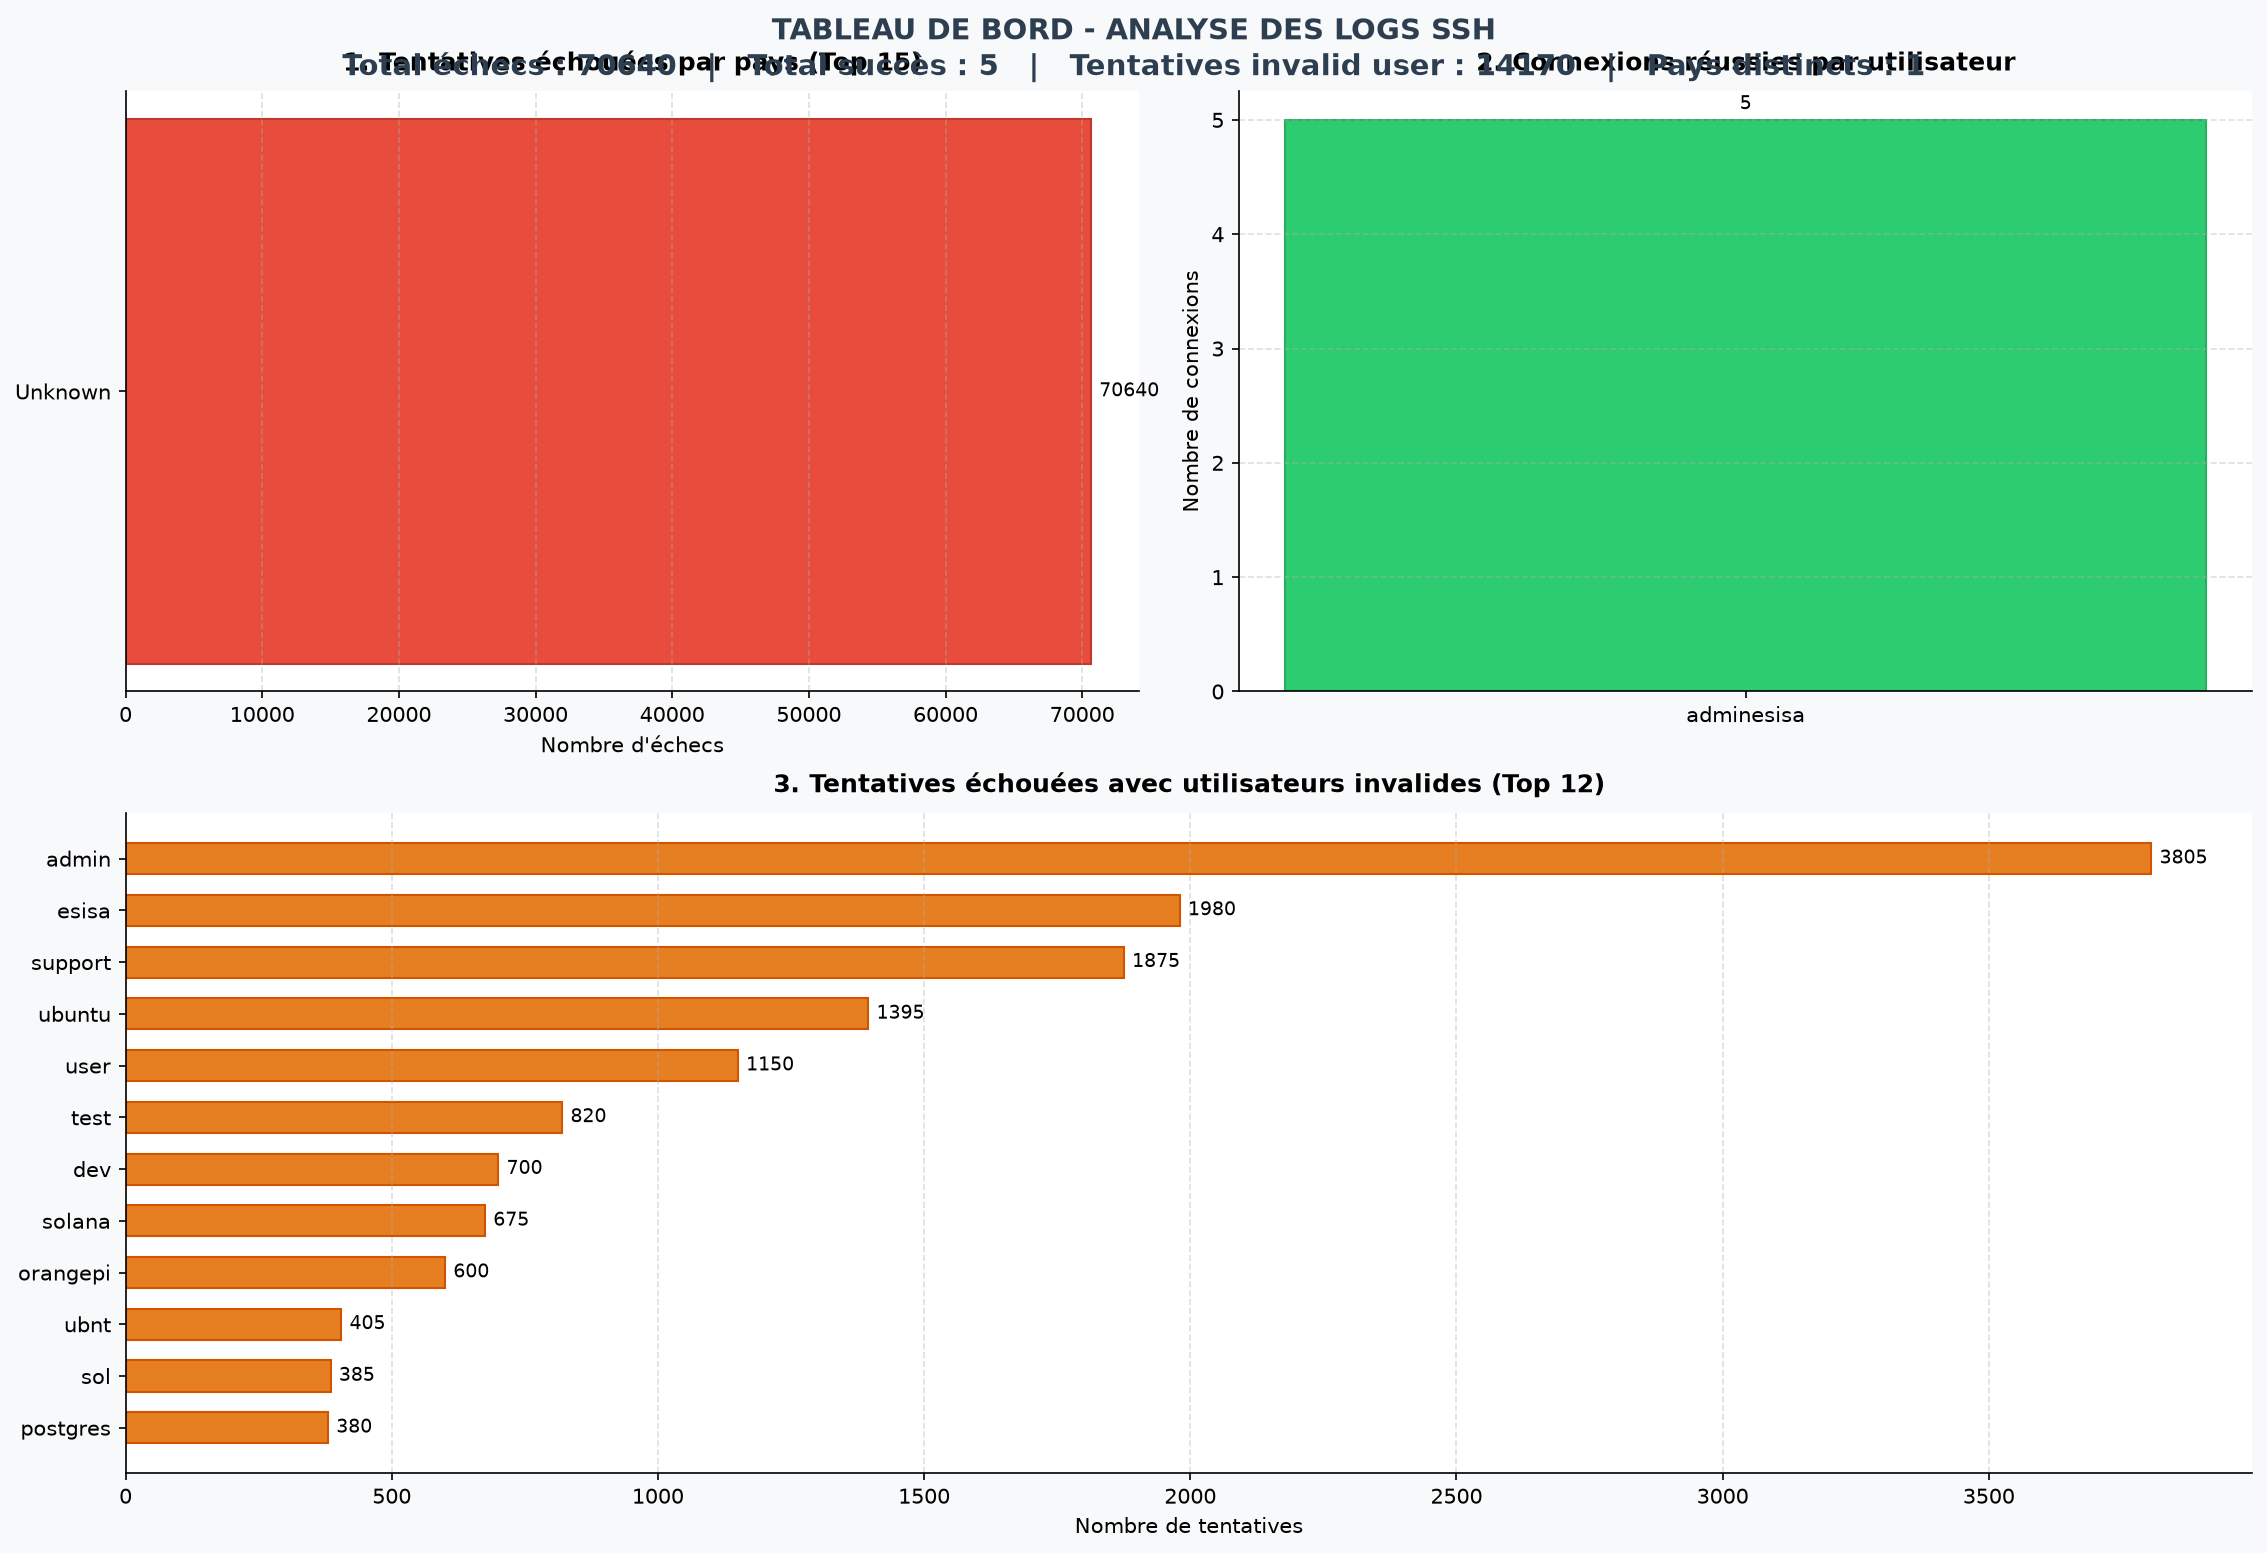
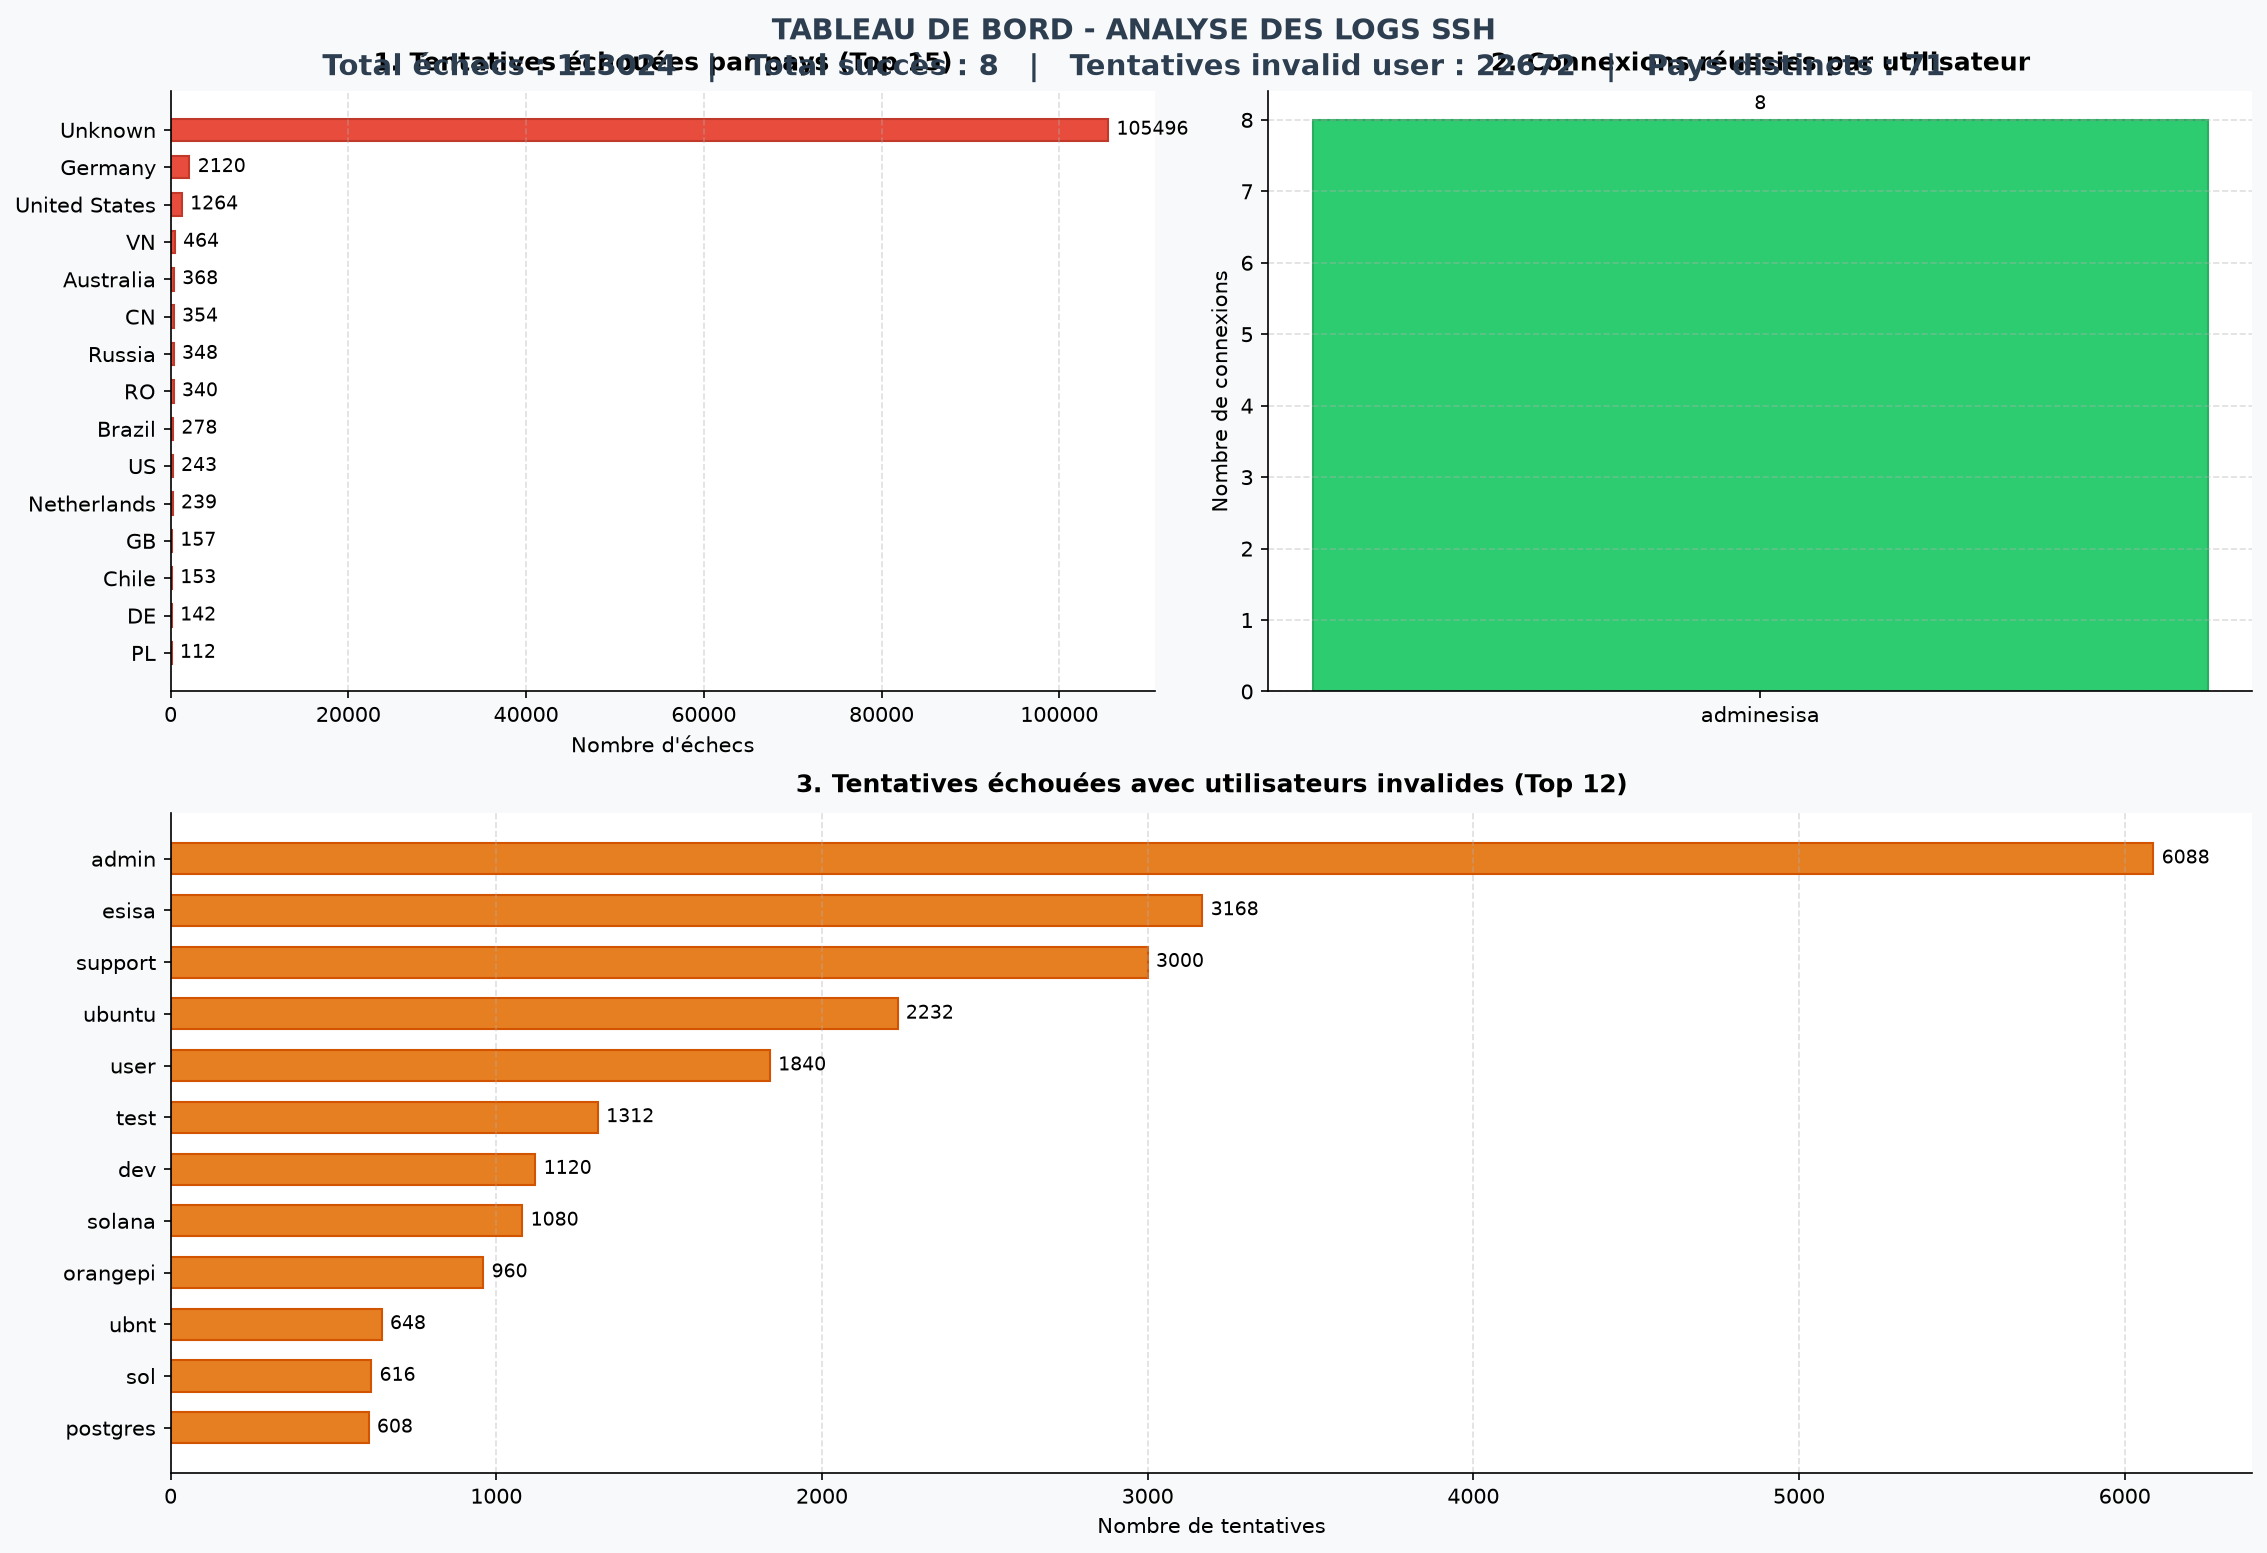
refactor(serving): clean up dashboard script using standard os.path and update PNG

diff --git a/serving/dashboard.py b/serving/dashboard.py
@@ -9,14 +9,13 @@ Graphiques demandés :
   2. Nombre de tentatives réussies par utilisateur
   3. Tentatives échouées avec utilisateurs invalides (invalid user)
 """
+import os
 import sys
-from pathlib import Path
 from typing import Optional
 
 # Permettre l'exécution directe du script depuis n'importe quel dossier
-PROJECT_ROOT = Path(__file__).resolve().parent.parent
-if str(PROJECT_ROOT) not in sys.path:
-    sys.path.insert(0, str(PROJECT_ROOT))
+if "." not in sys.path:
+    sys.path.insert(0, ".")
 
 import matplotlib
 matplotlib.use("Agg")  # Mode sans interface graphique
@@ -26,8 +25,8 @@ from logger.app_logger import get_logger
 
 _log = get_logger("serving.dashboard")
 
-OUTPUT_DIR: Path = Path(__file__).resolve().parent
-OUTPUT_FILE: Path = OUTPUT_DIR / "dashboard.png"
+OUTPUT_DIR: str = "serving"
+OUTPUT_FILE: str = os.path.join(OUTPUT_DIR, "dashboard.png")
 
 
 def _plot_failed_by_country(ax: plt.Axes, data: list) -> None:
@@ -197,7 +196,7 @@ def generate(conn) -> bool:
         _plot_invalid_users(ax_invalid, data_invalid)
 
         # Sauvegarde du fichier PNG
-        OUTPUT_DIR.mkdir(parents=True, exist_ok=True)
+        os.makedirs(OUTPUT_DIR, exist_ok=True)
         fig.savefig(OUTPUT_FILE, dpi=150, bbox_inches="tight", facecolor=fig.get_facecolor())
         plt.close(fig)
 
